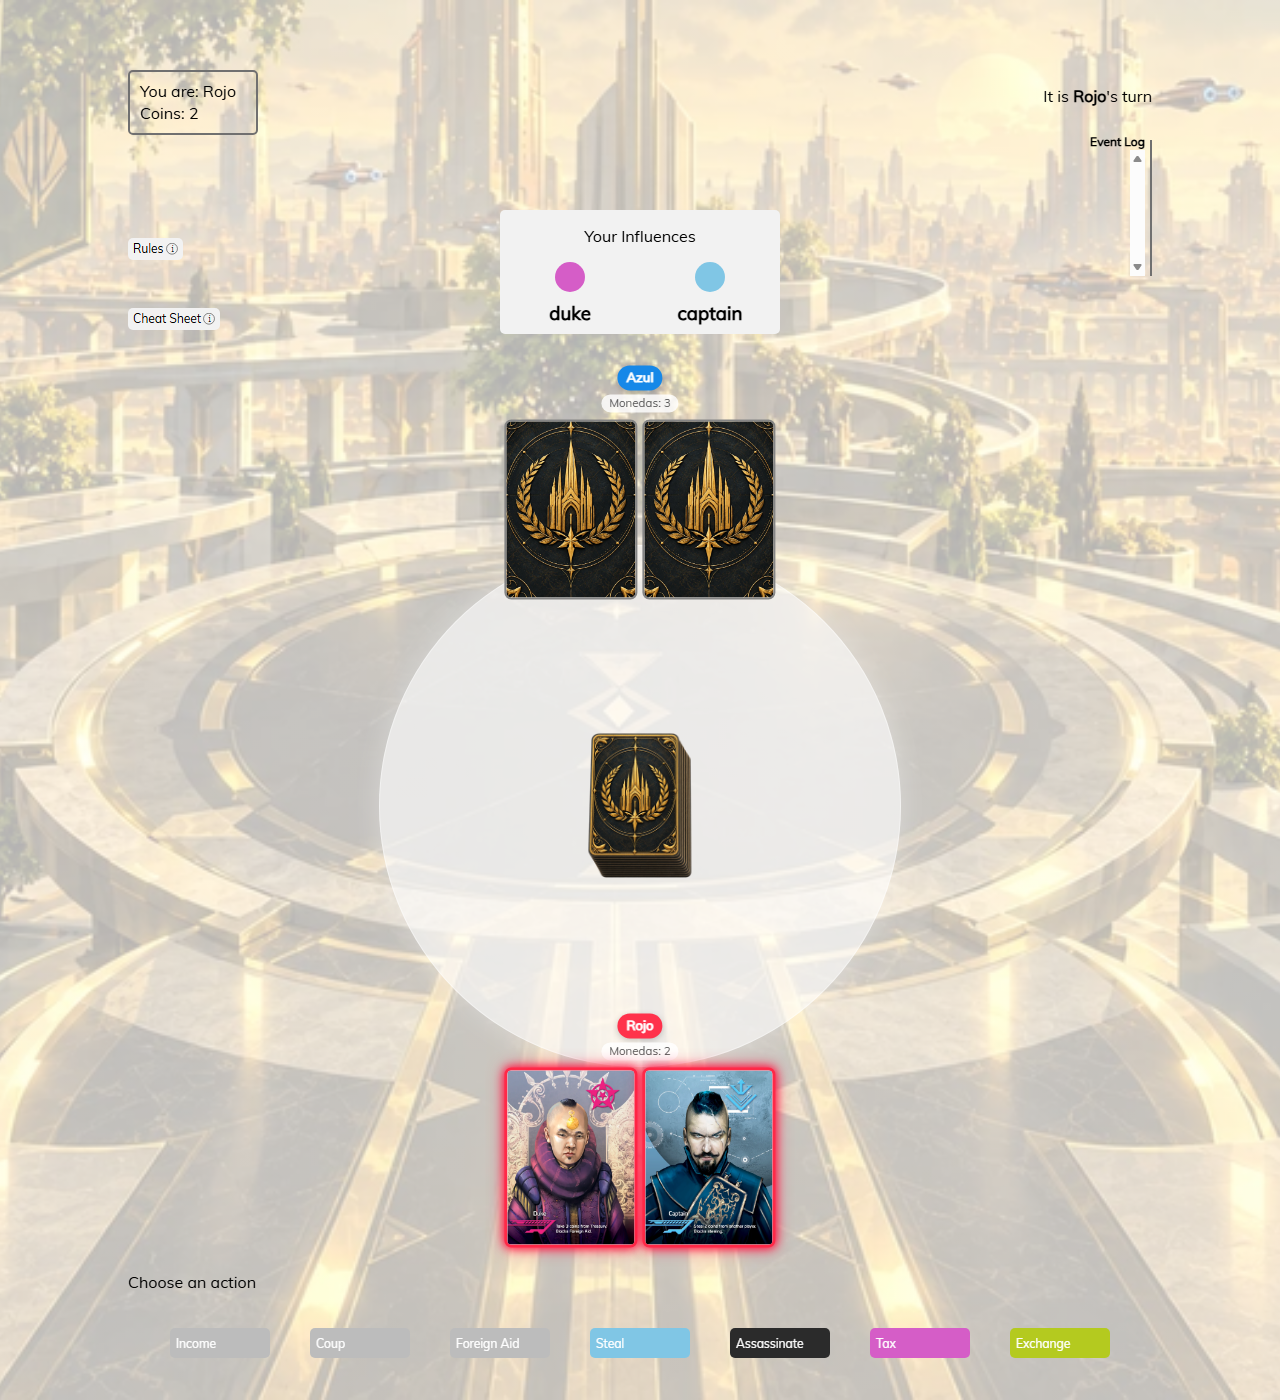
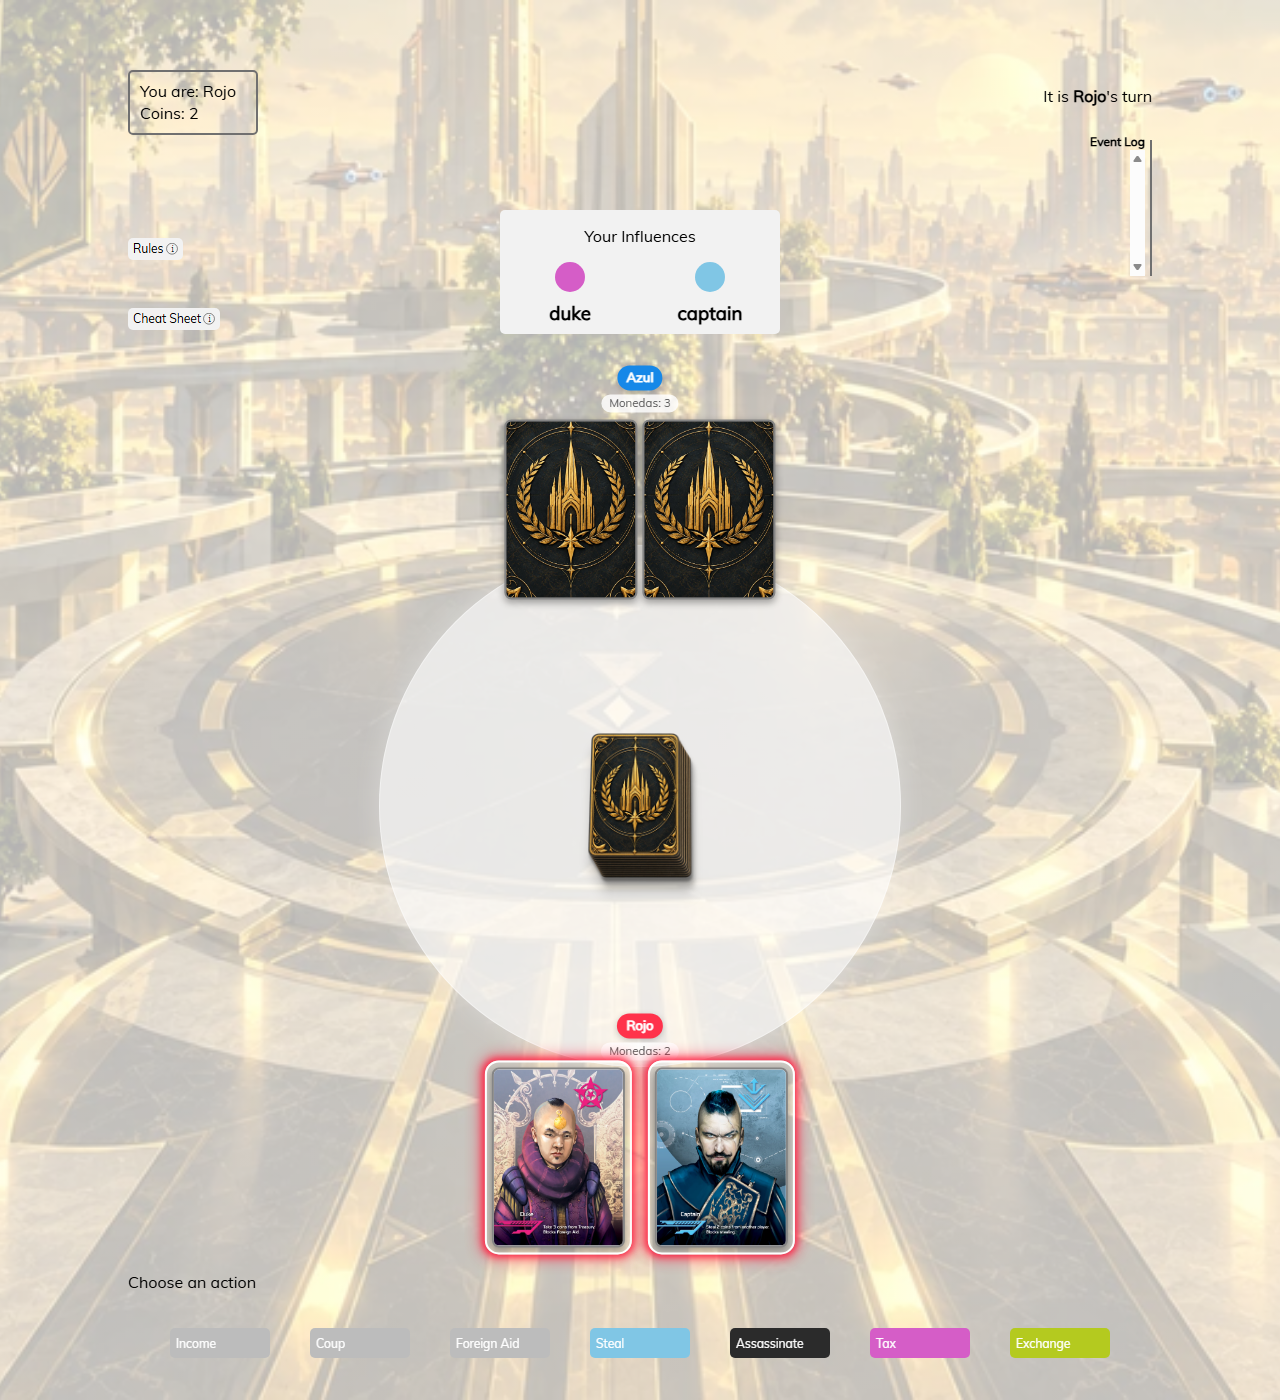
Polish turn halo and player spacing

diff --git a/coup-client/src/components/game/PlayerBoardStyles.css b/coup-client/src/components/game/PlayerBoardStyles.css
@@ -51,6 +51,10 @@
     object-fit: contain;
     pointer-events: none;
     transform: translate(-50%, -50%);
+    filter:
+        drop-shadow(1px 4px 1px rgba(0, 0, 0, 0.34))
+        drop-shadow(3px 8px 2px rgba(0, 0, 0, 0.22))
+        drop-shadow(0 13px 5px rgba(0, 0, 0, 0.15));
 }
 
 .PlayerBoardSeat {
@@ -98,7 +102,12 @@
     gap: 5px;
 }
 
+.PlayerBoardSeat--current .PlayerBoardSeatInfluences {
+    gap: 30px;
+}
+
 .PlayerInfluenceSlot {
+    position: relative;
     display: inline-flex;
     flex: 0 0 auto;
     width: clamp(76px, 10.4vw, 134px);
@@ -107,12 +116,13 @@
     box-sizing: border-box;
     align-items: center;
     justify-content: center;
-    overflow: hidden;
+    overflow: visible;
     border: 2px solid #858585;
     border-radius: 7px;
     font-size: 0.72rem;
     line-height: 1.1;
     text-align: center;
+    box-shadow: 0 3px 7px rgba(0, 0, 0, 0.32);
 }
 
 .PlayerInfluenceSlot--face {
@@ -126,6 +136,7 @@
     display: block;
     width: 100%;
     height: 100%;
+    border-radius: 5px;
     object-fit: cover;
 }
 
@@ -147,8 +158,20 @@
 }
 
 .PlayerBoardSeat--current .PlayerInfluenceSlot:not(.PlayerInfluenceSlot--inactive) {
-    border: 3px solid #ff2947;
-    box-shadow: 0 0 8px #ff1744, 0 0 16px rgba(255, 23, 68, 0.72);
+    border-color: #858585;
+}
+
+.PlayerBoardSeat--current .PlayerInfluenceSlot:not(.PlayerInfluenceSlot--inactive)::after {
+    content: '';
+    position: absolute;
+    z-index: 2;
+    inset: -9px;
+    border: 2px solid rgba(255, 255, 255, 0.98);
+    border-radius: 14px;
+    box-shadow:
+        0 0 6px 2px rgba(255, 35, 68, 0.88),
+        0 0 14px 5px rgba(255, 18, 55, 0.48);
+    pointer-events: none;
 }
 
 @media only screen and (max-width: 520px) {
@@ -164,11 +187,27 @@
         font-size: 0.72rem;
     }
 
-    .PlayerBoardSeat[data-seat-edge="left"] {
+    .PlayerBoardSeat[data-seat-edge="left-far"] {
         transform: translate(calc(-50% + clamp(16px, 5vw, 26px)), -50%);
     }
 
-    .PlayerBoardSeat[data-seat-edge="right"] {
+    .PlayerBoardSeat[data-seat-edge="right-far"] {
         transform: translate(calc(-50% - clamp(16px, 5vw, 26px)), -50%);
+    }
+
+    .PlayerBoardSeat[data-seat-edge="left-near"] {
+        transform: translate(calc(-50% + clamp(8px, 2vw, 12px)), -50%);
+    }
+
+    .PlayerBoardSeat[data-seat-edge="right-near"] {
+        transform: translate(calc(-50% - clamp(8px, 2vw, 12px)), -50%);
+    }
+
+    .PlayerBoardSeat[data-player-count="5"][data-seat-lower-side="true"] {
+        translate: 0 -20px;
+    }
+
+    .PlayerBoardSeat[data-player-count="6"][data-seat-lower-side="true"] {
+        translate: 0 -32px;
     }
 }

diff --git a/coup-client/src/components/game/PlayerBoard.js b/coup-client/src/components/game/PlayerBoard.js
@@ -84,7 +84,15 @@ export default function PlayerBoard(props) {
             />
             {seats.map(({ player, seatIndex, left, top, isObserver }) => {
                 const isCurrentPlayer = player.name === props.currentPlayer
-                const seatEdge = left <= 20 ? 'left' : left >= 80 ? 'right' : undefined
+                const seatEdge = left <= 15
+                    ? 'left-far'
+                    : left < 17
+                        ? 'left-near'
+                        : left >= 85
+                            ? 'right-far'
+                            : left > 83
+                                ? 'right-near'
+                                : undefined
                 const seatClassName = [
                     'PlayerBoardSeat',
                     isCurrentPlayer ? 'PlayerBoardSeat--current' : ''
@@ -95,6 +103,10 @@ export default function PlayerBoard(props) {
                     key={player.name}
                     data-seat-index={seatIndex}
                     data-seat-edge={seatEdge}
+                    data-player-count={seats.length}
+                    data-seat-lower-side={
+                        seats.length >= 5 && top >= 60 && Math.abs(left - 50) >= 5 ? 'true' : undefined
+                    }
                     data-current-player={isCurrentPlayer ? 'true' : 'false'}
                     aria-current={isCurrentPlayer ? 'true' : undefined}
                     style={{

diff --git a/docs/plans/circular-board-visual-polish/plan_circular_board_visual_polish.md b/docs/plans/circular-board-visual-polish/plan_circular_board_visual_polish.md
@@ -37,6 +37,7 @@ En el checkout local, el archivo de fondo disponible se llama `fotos/backgrond.p
 4. Las cartas de jugador se perciben grandes (hasta 134 px de ancho en escritorio; `clamp(58px, 15.5vw, 82px)` en compacto), sin caja blanca exterior ni recortes laterales para 2–6 jugadores. Las etiquetas conservan nombre, monedas y color.
 5. Se mantienen visibles los colores y el contorno neón del turno, cartas propias/rivales, y estados de influencia perdida/eliminación.
 6. Previews de escritorio y ancho compacto permiten comparar la composición con las referencias; el navegador compila el cliente sin errores.
+7. Cada carta y el mazo tienen una sombra negra sutil e independiente; el turno activo tiene un contorno blanco separado de la carta y un halo rojo exterior.
 
 ## Ejecución y cierre
 
@@ -48,6 +49,7 @@ Una fase `F1 — Integrar fondo, centro y escala de cartas`. Pregunta: ¿el tabl
 - 2026-09-25 20:54 -06:00: F1 cerrada; fondo WebP 1024×576 RGB (224710 bytes), proporción preservada por redimensionado, sin alfa en el PNG fuente. El tablero con disco y cartas mayores se revisó en 2–6 jugadores, 1280×1400 y 490×1200; panel de acciones visible debajo. Evidencia: `docs/plans/circular-board-visual-polish/report_issue_9_F1.md`. Dev server compiló con advertencias ESLint preexistentes; `git diff --check` correcto; no se ejecutaron tests ni build de producción. Pasa a revisión del Orquestador.
 - 2026-09-25 21:40 -06:00: Corrección solicitada tras revisión: el fondo pasó de una capa absoluta dentro del tablero cuadrado a cubrir todo el viewport desde `.GameContainer::before`; ahora usa `cover` centrado, capa blanca CSS de 0.70 y opacidad efectiva aproximada de imagen 0.30. Se renovaron las diez capturas 2–6 jugadores × escritorio/compacto y se inspeccionó la cobertura de las franjas de página. PR #10 permanece abierto y sin merge.
 - 2026-09-26 05:06 -06:00: Nueva corrección de PR #10: se quitó la caja blanca exterior de los asientos; las cartas crecieron a 134px máximo en escritorio y 58–82px en compacto, con etiquetas de jugador en color. Se detectaron recortes compactos en los asientos próximos al borde para 3–5; `PlayerBoard.js` expone el borde derivado de la coordenada calculada y CSS compensa hacia adentro en <=520px, sin depender del índice ni alterar el cálculo base del círculo. Se regeneraron las 10 capturas; se revisaron 3p/6p escritorio y 3–6 compacto, con pares completos y sin solapamientos. Harness temporal de `App.js` restaurado; `start-pc` compiló antes y después, con advertencias ESLint existentes. `git diff --check` pasó. PR #10 sigue abierta, sin merge.
+- 2026-09-26 05:42 -06:00: Nueva corrección de PR #10: cada carta suma sombra negra sutil; el mazo tiene sombra por capas; el resalte del turno usa aro pseudo-elemento blanco de 2px con unos 3px de separación y halo rojo independiente de las sombras. Overflow visible deja salir el aro. Se renovaron las 10 capturas y se revisaron 3p/6p en escritorio/compacto. El layout de 6p compacto queda estrecho en las esquinas inferiores, con leve proximidad/solapamiento al asiento actual; no se alteraron tamaños ni posiciones en este ajuste.
 
 **Validación mínima:** inspección visual de previews y compilación local del cliente. No agregar ni ejecutar tests automatizados para este cambio visual.
 

diff --git a/docs/plans/circular-board-visual-polish/report_issue_9_F1.md b/docs/plans/circular-board-visual-polish/report_issue_9_F1.md
@@ -6,6 +6,7 @@
 - El fondo usa `cover` centrado en una capa fija de viewport, sin deformación; la plataforma central del arte permanece reconocible y la imagen también aparece en las franjas superior e inferior de la página. Añadí un disco blanco translúcido centrado detrás del mazo.
 - Corrección de cartas solicitada para PR #10: quité el panel blanco exterior de cada asiento y dejé nombre/monedas en etiquetas compactas con color de jugador. Las influencias miden hasta 134 px de ancho en escritorio y usan `clamp(58px, 15.5vw, 82px)` en compacto (76 px a 490 px). El contorno neón sigue en las cartas del jugador actual.
 - Para pantallas compactas, los asientos próximos a los bordes desplazan sus cartas hacia adentro según su coordenada horizontal calculada; el cálculo base del círculo se conserva. Así se mantienen completas las cartas laterales en 3, 4, 5 y 6 jugadores.
+- Corrección de sombras para PR #10: cada `.PlayerInfluenceSlot` tiene una sombra negra corta y discreta; el mazo usa varias capas `drop-shadow` para sugerir una pila física. El jugador actual recibe un `::after` externo: contorno blanco de 2 px, unos 3 px de separación de la carta y halo rojo exterior. La sombra negra de carta/mazo no comparte la capa del neón.
 - No cambié posiciones, colores, resalte neón, reversos, reglas, socket ni paneles. No versioné el PNG fuente.
 
 ## Evidencia visual
@@ -20,7 +21,7 @@ Capturas de navegador con `PlayerBoard` real, fixtures locales de 2–6 jugadore
 | 5 | [preview](preview_issue_9_F1_5p_desktop.png) | [preview](preview_issue_9_F1_5p_mobile.png) |
 | 6 | [preview](preview_issue_9_F1_6p_desktop.png) | [preview](preview_issue_9_F1_6p_mobile.png) |
 
-Revisé la composición, en especial 3 y 6 jugadores en escritorio y compacto. Los pares de cartas, el mazo, disco, nombres, monedas y controles no se solapan; los asientos de borde permanecen dentro del viewport. La simulación usa `Coup`/`ActionDecision` reales con fixtures deterministas y socket sin red; no usa partida/socket real ni se hicieron clics en acciones.
+Revisé la composición, en especial 3 y 6 jugadores en escritorio y compacto. Sombras, mazo, disco, nombres, monedas y controles permanecen legibles. En compacto para 6 jugadores, las esquinas de las manos laterales inferiores quedan muy próximas y se superponen ligeramente con el área de las cartas activas; se conservó el layout y quedó registrado para revisión visual futura. Las demás cartas caben completas. La simulación usa `Coup`/`ActionDecision` reales con fixtures deterministas y socket sin red; no usa partida/socket real ni se hicieron clics en acciones.
 
 ## Validación
 
